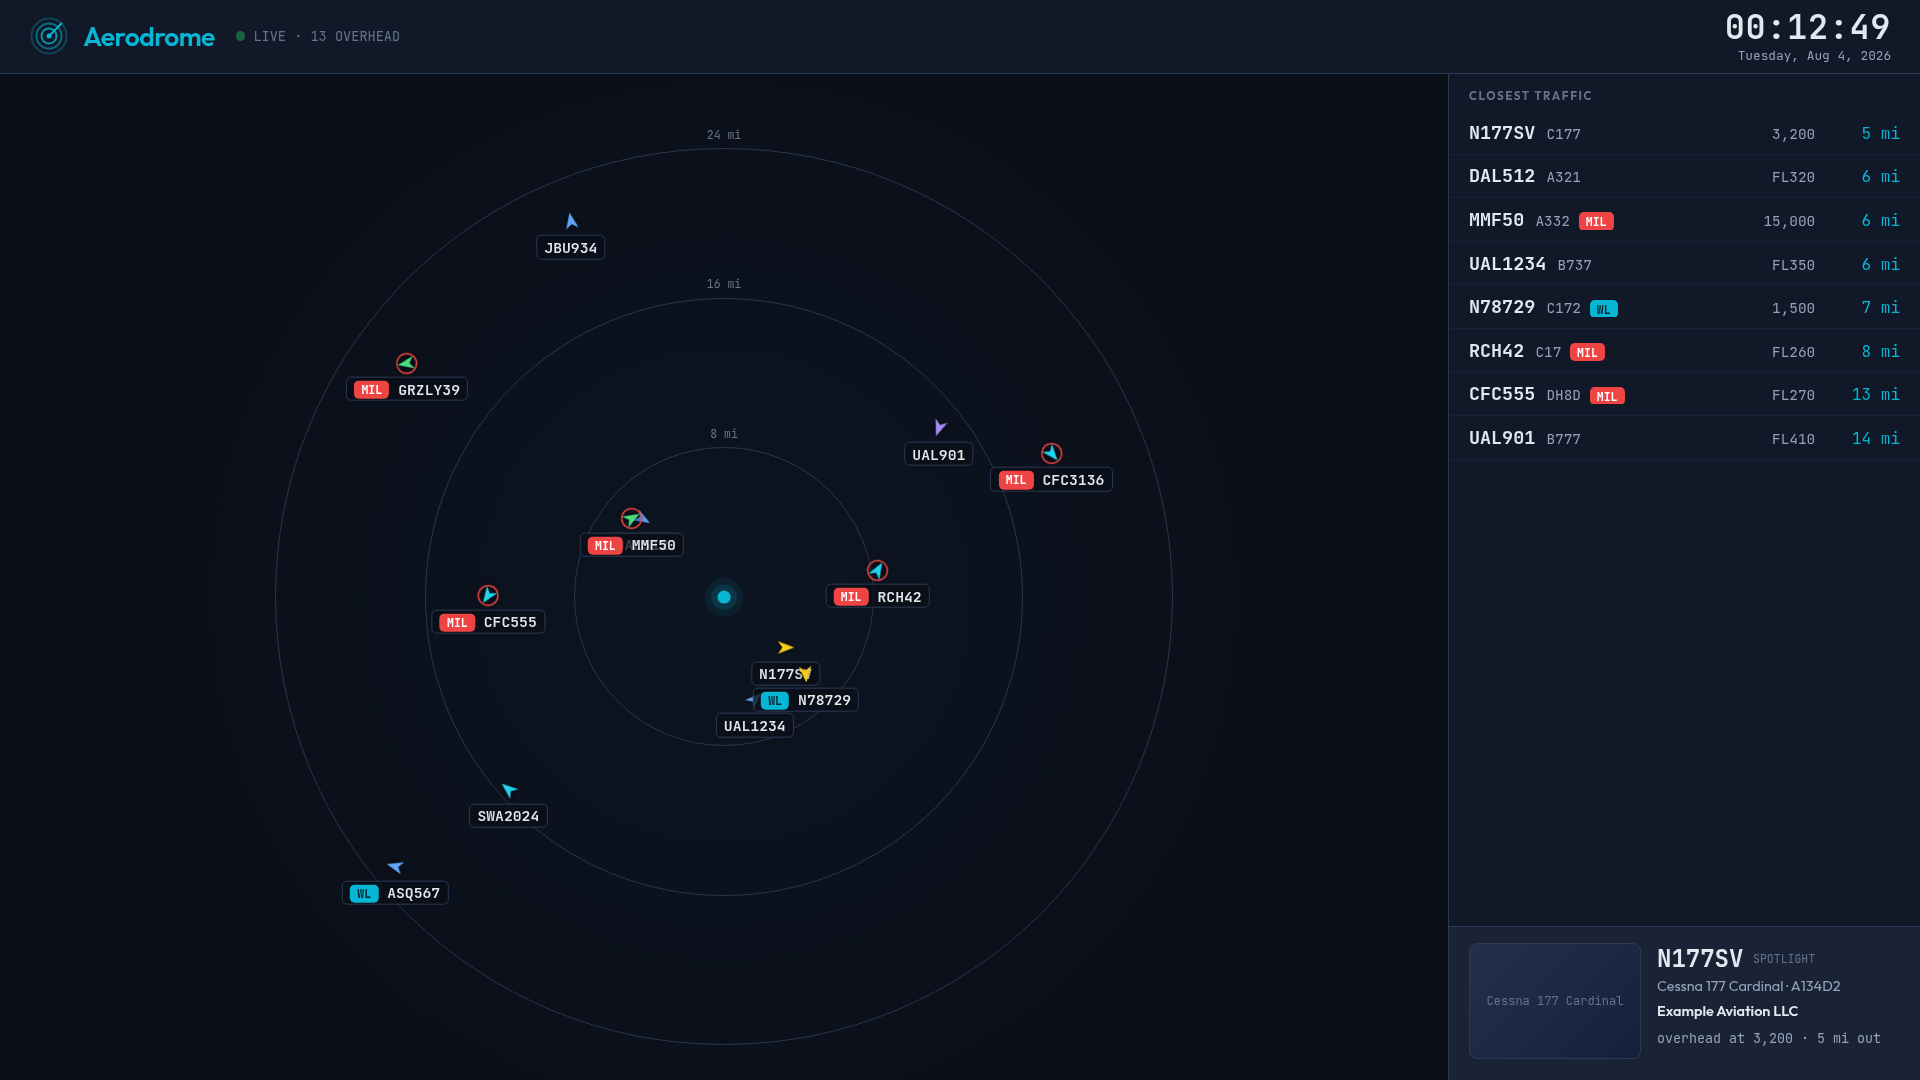
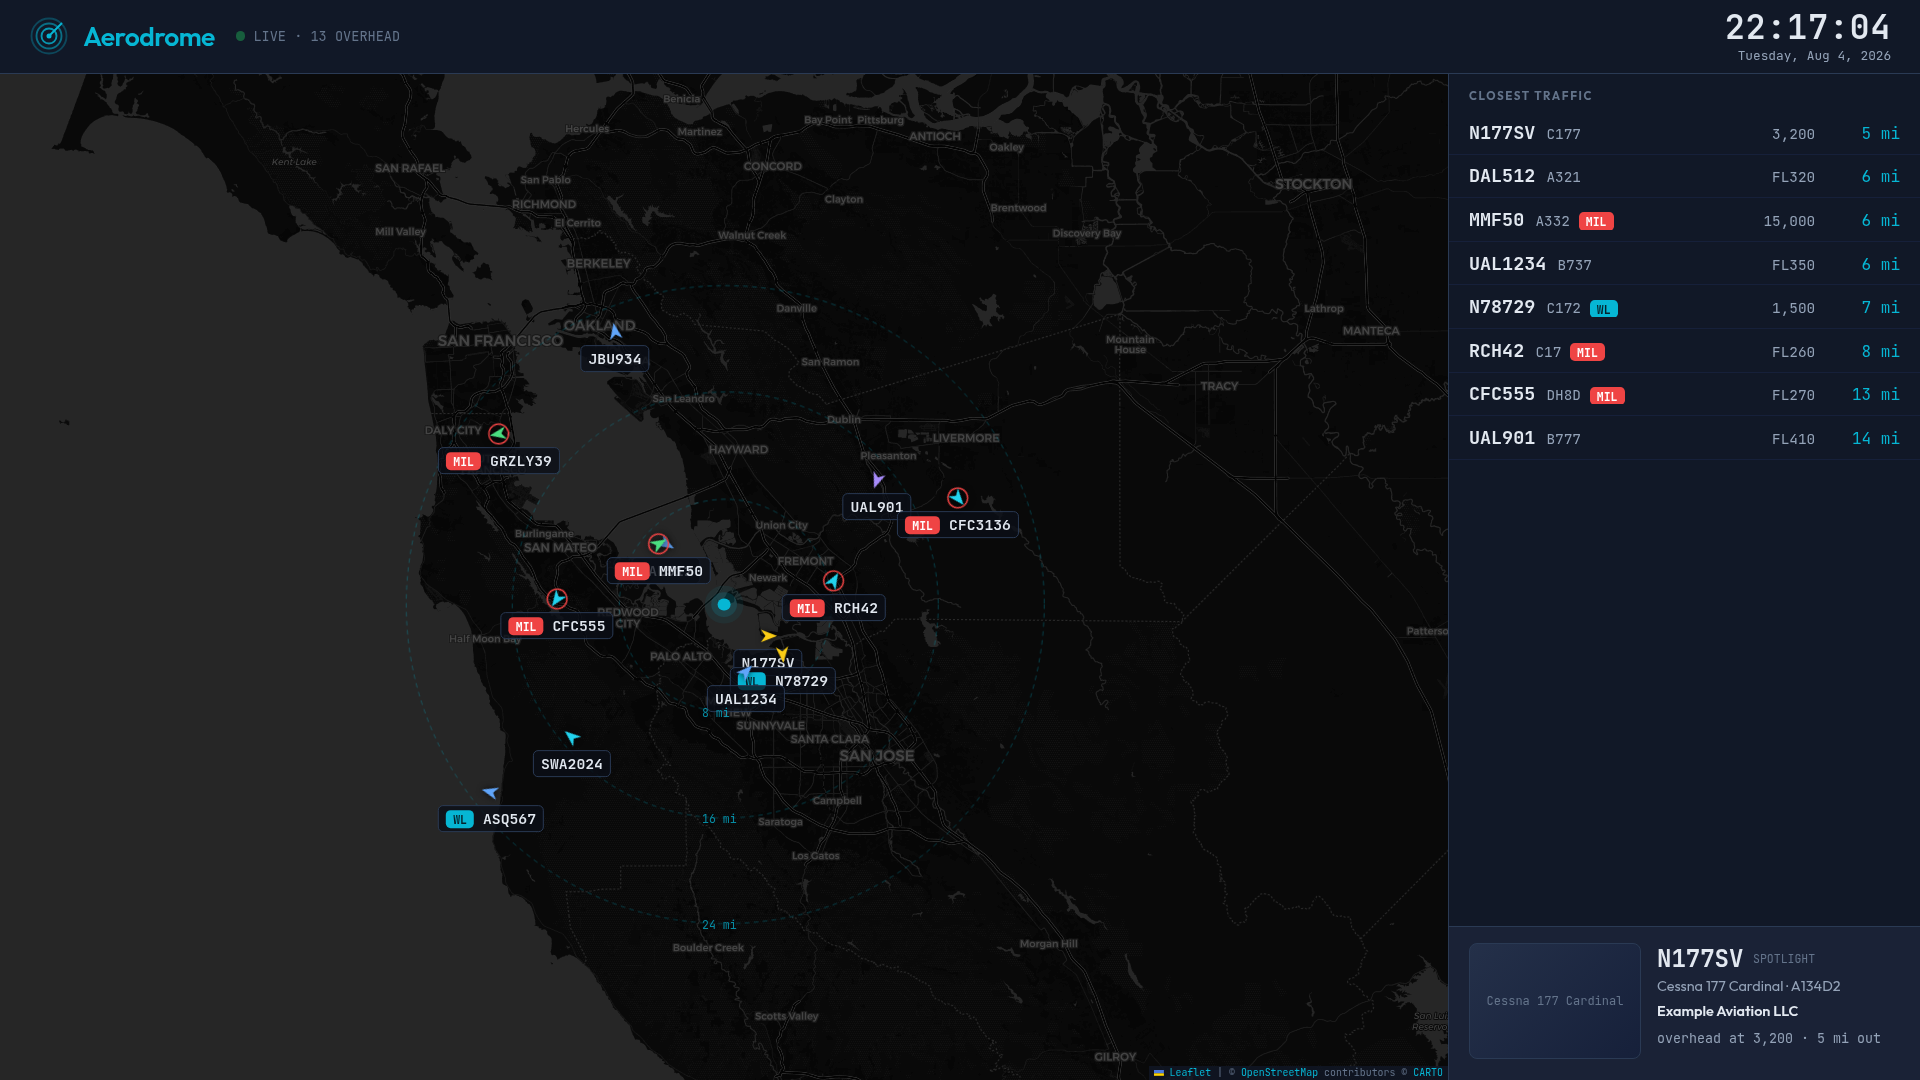
v3.4.112: display-board radar layouts on real map tiles — Leaflet basemap matching the Live radar (OSM/CARTO tiles, cyan dashed rings + south labels, receiver dot), honors Configuration → Map (theme/rings/starting view), non-interactive for kiosk; board shots re-rendered

diff --git a/templates/board.html b/templates/board.html
@@ -10,6 +10,8 @@
 <link rel="preconnect" href="https://fonts.googleapis.com">
 <link rel="preconnect" href="https://fonts.gstatic.com" crossorigin>
 <link href="https://fonts.googleapis.com/css2?family=JetBrains+Mono:wght@400;600;700&family=Outfit:wght@300;400;500;600;700&display=swap" rel="stylesheet">
+<link rel="stylesheet" href="/static/leaflet/leaflet.css">
+<script src="/static/leaflet/leaflet.js"></script>
 <style>
 /* =============================================================================
    Display board (v3.4.110) — kiosk page for FBO/office wall TVs.
@@ -61,11 +63,17 @@ body.picking{cursor:default}
   background:rgba(245,158,11,.14);border:1px solid var(--amber);color:var(--amber);
   font-family:var(--mono);font-size:.9rem;padding:.4rem 1rem;border-radius:.5rem;display:none}
 
-/* ---------- radar scope (modes A + C) ---------- */
+/* ---------- radar map (modes A + C) — a real Leaflet basemap, matching
+   the Live tab's radar (v3.4.112). The gradient shows only as a fallback
+   while tiles load / when no receiver location is configured. ---------- */
 .scope-wrap{position:absolute;inset:0;overflow:hidden;
   background:radial-gradient(circle at 50% 52%, #0d1522 0%, #0a0e17 72%)}
-.ring{position:absolute;border:1px solid rgba(42,58,84,.9);border-radius:50%}
-.ring-lab{position:absolute;font-family:var(--mono);font-size:.72rem;color:var(--t3);transform:translate(-50%,-50%)}
+.leaflet-container{background:#0a0e17;width:100%;height:100%}
+.scope-wrap .leaflet-control-attribution{background:rgba(17,24,39,.8);
+  color:var(--t3);font-size:.62rem;font-family:var(--mono)}
+.scope-wrap .leaflet-control-attribution a{color:var(--cyan)}
+.ring-lab{font-family:var(--mono);font-size:.72rem;color:var(--cyan);opacity:.75;
+  white-space:nowrap;text-shadow:0 0 .25rem rgba(10,14,23,.9)}
 .rx{position:absolute;width:.8rem;height:.8rem;border-radius:50%;background:var(--cyan);
     transform:translate(-50%,-50%);
     box-shadow:0 0 0 .4rem rgba(6,182,212,.15),0 0 0 .8rem rgba(6,182,212,.07)}
@@ -76,8 +84,7 @@ body.picking{cursor:default}
   background:rgba(10,14,23,.78);padding:.1rem .45rem;border-radius:.32rem;
   border:1px solid var(--bdr);white-space:nowrap}
 .ac .lab small{color:var(--t2);font-weight:400;font-size:.76rem}
-.ac.rim{opacity:.35}
-.legend{position:absolute;left:1.2rem;bottom:1.1rem;background:rgba(17,24,39,.85);
+.legend{position:absolute;left:1.2rem;bottom:1.1rem;z-index:1000;background:rgba(17,24,39,.85);
   border:1px solid var(--bdr);border-radius:.5rem;padding:.55rem .9rem;
   font-family:var(--mono);font-size:.72rem;color:var(--t2);display:flex;gap:.9rem;align-items:center}
 .sw{width:.68rem;height:.68rem;border-radius:.2rem;display:inline-block;margin-right:.3rem;vertical-align:-.06rem}
@@ -311,6 +318,10 @@ let LAST_OK = 0;          // epoch ms of last successful poll
 let FAILURES = 0;
 let BOOT_DAY = new Date().getDate();
 let WB_DEFAULT = 'ask';   // display.wallboard_layout from /api/ui-config
+// v3.4.112: the Map section's settings (Configuration → Map), same source the
+// Live radar reads — tiles theme, rings on/off, and the starting view.
+let MAPCFG = {show_range_rings: true, default_theme: 'auto',
+              starting_view: 'fit_all', fixed_zoom: 9};
 
 const $ = (id) => document.getElementById(id);
 function escapeHtml(s){
@@ -423,12 +434,6 @@ function distUnit(lat1, lon1, lat2, lon2){
   const a = Math.sin(dp/2)**2 + Math.cos(p1) * Math.cos(p2) * Math.sin(dl/2)**2;
   return 2 * R * Math.asin(Math.sqrt(a));
 }
-function bearing(lat1, lon1, lat2, lon2){
-  const p1 = lat1 * Math.PI/180, p2 = lat2 * Math.PI/180, dl = (lon2 - lon1) * Math.PI/180;
-  const y = Math.sin(dl) * Math.cos(p2);
-  const x = Math.cos(p1) * Math.sin(p2) - Math.sin(p1) * Math.cos(p2) * Math.cos(dl);
-  return Math.atan2(y, x);
-}
 function altColor(alt){
   if (alt == null || isNaN(alt)) return '#9ca3af';
   const a = Number(alt);
@@ -464,53 +469,121 @@ function chevronSvg(a, sizeRem){
   return `<svg viewBox="0 0 24 24" style="${s};transform:rotate(${rot}deg)">${ring}<path d="M12 2 L19 20 L12 15 L5 20 Z" fill="${col}"/></svg>`;
 }
 
-/* ============================ scope renderer (A + C) ============================ */
-function renderScope(el, opts){
-  if (!el) return;
-  const W = el.clientWidth, H = el.clientHeight;
-  if (!W || !H) return;
-  const cx = W * 0.5, cy = H * 0.52;
-  const remPx = parseFloat(getComputedStyle(document.documentElement).fontSize) || 16;
-  if (RX.lat == null || RX.lon == null) {
-    el.innerHTML = `<div style="position:absolute;inset:0;display:flex;align-items:center;justify-content:center;color:var(--t3);font-family:var(--mono);font-size:1rem;text-align:center">receiver location not configured —<br>radar layouts need it (Configuration → Receiver)</div>`;
-    return;
-  }
-  const maxRing = Math.max(...RINGS);
-  const pxPer = (Math.min(W, H) / 2 - 3.4 * remPx) / maxRing;
-  let html = '';
-  RINGS.forEach(rg => {
-    const d = rg * pxPer * 2;
-    html += `<div class="ring" style="width:${d}px;height:${d}px;left:${cx - d/2}px;top:${cy - d/2}px"></div>`;
-    html += `<div class="ring-lab" style="left:${cx}px;top:${cy - rg * pxPer - 0.9 * remPx}px">${rg} ${UNIT}</div>`;
-  });
-  html += `<div class="rx" style="left:${cx}px;top:${cy}px"></div>`;
-  const contacts = withDistance(LIVE).filter(a => a.lat != null && a.lon != null);
-  contacts.forEach(a => {
-    if (a._dist == null) return;
-    const brg = bearing(RX.lat, RX.lon, a.lat, a.lon);
-    const rim = a._dist > maxRing;
-    const r = Math.min(a._dist, maxRing) * pxPer;
-    const x = cx + r * Math.sin(brg), y = cy - r * Math.cos(brg);
-    const size = opts.big ? 1.6 : 1.35;
-    let lab = '';
-    if (!rim) {
-      const pill = a.is_military ? `<span class="pill mil">${escapeHtml(a.mil_label || 'MIL')}</span> `
-                 : (a.is_watchlist ? `<span class="pill wl">${escapeHtml(a.watchlist_label || 'WL')}</span> ` : '');
-      const tail = opts.telemetry ? ` <small>· ${fmtAltShort(a.altitude)}</small>` : '';
-      lab = `<div class="lab">${pill}${escapeHtml(a.callsign || a.icao)}${tail}</div>`;
-    }
-    html += `<div class="ac${rim ? ' rim' : ''}" style="left:${x}px;top:${y}px">${chevronSvg(a, size)}${lab}</div>`;
-  });
+/* ============================ radar map (A + C) ============================
+   A real Leaflet basemap, mirroring the Live tab's radar (v3.4.112): the
+   same OSM-light / CARTO-dark tiles, the same cyan dashed range rings with
+   south-edge distance labels, the same receiver dot. Honors Configuration →
+   Map (default_theme, show_range_rings, ring_distances, starting_view /
+   fixed_zoom via /api/ui-config). Non-interactive — a wall display has no
+   user to pan it, and disabling all input means the view can never drift. */
+const _maps = {};   // element id → {map, markers:{icao→L.marker}, rings:[], fitted}
+
+function _mapFor(el, opts){
+  if (_maps[el.id]) return _maps[el.id];
+  const map = L.map(el, {
+    preferCanvas: true, zoomControl: false, attributionControl: true,
+    dragging: false, scrollWheelZoom: false, doubleClickZoom: false,
+    boxZoom: false, keyboard: false, touchZoom: false, worldCopyJump: true,
+  }).setView([0, 0], 2);
+  // Tile theme follows the Map section's default_theme; the board is a
+  // dark page, so "auto" resolves dark here (there's no on-board toggle).
+  const light = (MAPCFG.default_theme === 'light');
+  (light
+    ? L.tileLayer('https://tile.openstreetmap.org/{z}/{x}/{y}.png', {
+        maxZoom: 18,
+        attribution: '© <a href="https://www.openstreetmap.org/copyright">OpenStreetMap</a> contributors'})
+    : L.tileLayer('https://{s}.basemaps.cartocdn.com/dark_all/{z}/{x}/{y}{r}.png', {
+        maxZoom: 19, subdomains: 'abcd',
+        attribution: '© <a href="https://www.openstreetmap.org/copyright">OpenStreetMap</a> contributors © <a href="https://carto.com/attributions">CARTO</a>'})
+  ).addTo(map);
+  const st = {map, markers: {}, rings: [], fitted: false, legendDone: false};
+  _maps[el.id] = st;
   if (opts.legend) {
-    html += `<div class="legend">
+    const lg = document.createElement('div');
+    lg.className = 'legend';
+    lg.innerHTML = `
       <span><span class="sw" style="background:#f97316"></span>&lt;1k</span>
       <span><span class="sw" style="background:#facc15"></span>&lt;10k</span>
       <span><span class="sw" style="background:#4ade80"></span>&lt;20k</span>
       <span><span class="sw" style="background:#22d3ee"></span>&lt;30k</span>
       <span><span class="sw" style="background:#60a5fa"></span>&lt;40k</span>
-      <span><span class="sw" style="background:#a78bfa"></span>40k+</span></div>`;
+      <span><span class="sw" style="background:#a78bfa"></span>40k+</span>`;
+    el.appendChild(lg);
   }
-  el.innerHTML = html;
+  return st;
+}
+
+function _drawRings(st){
+  st.rings.forEach(r => st.map.removeLayer(r));
+  st.rings = [];
+  if (RX.lat == null || RX.lon == null) return;
+  const ll = [RX.lat, RX.lon];
+  const rxm = L.marker(ll, {
+    icon: L.divIcon({className: '', html: '<span class="rx"></span>',
+                     iconSize: [0, 0]}),
+    interactive: false, zIndexOffset: 1000,
+  }).addTo(st.map);
+  st.rings.push(rxm);
+  if (!MAPCFG.show_range_rings) return;
+  const perUnitM = UNIT === 'km' ? 1000 : (UNIT === 'nmi' || UNIT === 'nm') ? 1852 : 1609.34;
+  RINGS.forEach(d => {
+    const ring = L.circle(ll, {
+      radius: d * perUnitM, weight: 1, opacity: 0.32, fill: false,
+      interactive: false, dashArray: '4 5', color: '#06b6d4',
+    }).addTo(st.map);
+    st.rings.push(ring);
+    const southLat = RX.lat - (d * perUnitM) / 111320;
+    const lbl = L.marker([southLat, RX.lon], {
+      icon: L.divIcon({className: 'ring-lab', html: `${d} ${escapeHtml(UNIT)}`,
+                       iconSize: [44, 14], iconAnchor: [22, 7]}),
+      interactive: false, keyboard: false,
+    }).addTo(st.map);
+    st.rings.push(lbl);
+  });
+}
+
+function renderScope(el, opts){
+  if (!el || !el.clientWidth) return;
+  const st = _mapFor(el, opts);
+  const contacts = withDistance(LIVE).filter(a => a.lat != null && a.lon != null);
+  // Rings redraw only when absent (receiver/config don't move mid-session).
+  if (!st.rings.length) _drawRings(st);
+  const seen = new Set();
+  contacts.forEach(a => {
+    seen.add(a.icao);
+    const size = opts.big ? 1.6 : 1.35;
+    const pill = a.is_military ? `<span class="pill mil">${escapeHtml(a.mil_label || 'MIL')}</span> `
+               : (a.is_watchlist ? `<span class="pill wl">${escapeHtml(a.watchlist_label || 'WL')}</span> ` : '');
+    const tail = opts.telemetry ? ` <small>· ${fmtAltShort(a.altitude)}</small>` : '';
+    const html = `<div class="ac">${chevronSvg(a, size)}<div class="lab">${pill}${escapeHtml(a.callsign || a.icao)}${tail}</div></div>`;
+    const icon = L.divIcon({className: '', html, iconSize: [0, 0]});
+    if (st.markers[a.icao]) {
+      st.markers[a.icao].setLatLng([a.lat, a.lon]).setIcon(icon);
+    } else {
+      st.markers[a.icao] = L.marker([a.lat, a.lon], {icon, interactive: false})
+        .addTo(st.map);
+    }
+  });
+  Object.keys(st.markers).forEach(ic => {
+    if (!seen.has(ic)) { st.map.removeLayer(st.markers[ic]); delete st.markers[ic]; }
+  });
+  // Frame the view ONCE, per the Map section's starting view. Never re-fit on
+  // poll — a wall display that keeps re-zooming is unwatchable.
+  if (!st.fitted && (contacts.length || RX.lat != null)) {
+    st.fitted = true;
+    const haveRx = RX.lat != null && RX.lon != null;
+    if (haveRx && MAPCFG.starting_view === 'fixed_zoom') {
+      st.map.setView([RX.lat, RX.lon], MAPCFG.fixed_zoom || 9);
+    } else if (haveRx && MAPCFG.starting_view === 'fit_rings' && RINGS.length) {
+      const perUnitM = UNIT === 'km' ? 1000 : (UNIT === 'nmi' || UNIT === 'nm') ? 1852 : 1609.34;
+      st.map.fitBounds(L.circle([RX.lat, RX.lon],
+        {radius: Math.max(...RINGS) * perUnitM}).getBounds(), {padding: [10, 10]});
+    } else {
+      const pts = contacts.map(a => [a.lat, a.lon]);
+      if (haveRx) pts.push([RX.lat, RX.lon]);
+      if (pts.length) st.map.fitBounds(L.latLngBounds(pts), {padding: [60, 60], maxZoom: 11});
+    }
+  }
 }
 
 /* ============================ route/photo/owner memos ============================ */
@@ -678,7 +751,10 @@ function renderAll(){
   else if (MODE === 'hybrid') renderC();
   updateSignal();
 }
-window.addEventListener('resize', renderAll);
+window.addEventListener('resize', () => {
+  Object.values(_maps).forEach(st => st.map.invalidateSize());
+  renderAll();
+});
 (async function boot(){
   try {
     const r = await fetch('/api/ui-config');
@@ -687,6 +763,12 @@ window.addEventListener('resize', renderAll);
       if (j.distance_unit) UNIT = j.distance_unit;
       const rg = j.map && j.map.ring_distances;
       if (Array.isArray(rg) && rg.length) RINGS = rg;
+      if (j.map) {
+        MAPCFG.show_range_rings = j.map.show_range_rings !== false;
+        MAPCFG.default_theme = j.map.default_theme || 'auto';
+        MAPCFG.starting_view = j.map.starting_view || 'fit_all';
+        MAPCFG.fixed_zoom = j.map.fixed_zoom || 9;
+      }
       if (j.display && j.display.wallboard_layout) WB_DEFAULT = j.display.wallboard_layout;
     }
   } catch (e) { /* defaults are fine */ }

diff --git a/templates/docs.html b/templates/docs.html
@@ -19,7 +19,7 @@
 })();
 </script>
     <!-- theme:inline-fouc-end -->
-<!-- Version: 3.4.111 -->
+<!-- Version: 3.4.112 -->
 <meta charset="UTF-8">
 <meta name="viewport" content="width=device-width, initial-scale=1.0">
 <title>Aerodrome Documentation</title>

diff --git a/templates/about.html b/templates/about.html
@@ -19,7 +19,7 @@
 })();
 </script>
     <!-- theme:inline-fouc-end -->
-<!-- Version: 3.4.111 -->
+<!-- Version: 3.4.112 -->
 <meta charset="UTF-8">
 <meta name="viewport" content="width=device-width, initial-scale=1.0">
 <title>About — Aerodrome</title>

diff --git a/templates/diagnostics-slow-queries.html b/templates/diagnostics-slow-queries.html
@@ -1,4 +1,4 @@
-<!-- Version: 3.4.111 -->
+<!-- Version: 3.4.112 -->
 <!DOCTYPE html>
 <!-- theme:inline-fouc-start -->
 <script>(function(){var t=localStorage.getItem('theme');if(t==='light')document.documentElement.classList.add('light');})();</script>

diff --git a/templates/logs.html b/templates/logs.html
@@ -19,7 +19,7 @@
 })();
 </script>
     <!-- theme:inline-fouc-end -->
-<!-- Version: 3.4.111 -->
+<!-- Version: 3.4.112 -->
 <meta charset="UTF-8">
 <meta name="viewport" content="width=device-width, initial-scale=1.0">
 <title>Aerodrome Logs</title>

diff --git a/templates/aircraft.html b/templates/aircraft.html
@@ -1,4 +1,4 @@
-<!-- Version: 3.4.111 -->
+<!-- Version: 3.4.112 -->
 <!DOCTYPE html>
 <html lang="en">
 <head>

diff --git a/templates/config.html b/templates/config.html
@@ -1,4 +1,4 @@
-<!-- Version: 3.4.111 -->
+<!-- Version: 3.4.112 -->
 <!DOCTYPE html>
 <html lang="en">
 <head>

diff --git a/templates/diagnostics-watchlist.html b/templates/diagnostics-watchlist.html
@@ -1,4 +1,4 @@
-<!-- Version: 3.4.111 -->
+<!-- Version: 3.4.112 -->
 <!DOCTYPE html>
 <html lang="en">
 <head>

diff --git a/templates/diagnostics.html b/templates/diagnostics.html
@@ -1,4 +1,4 @@
-<!-- Version: 3.4.111 -->
+<!-- Version: 3.4.112 -->
 <!DOCTYPE html>
 <html lang="en">
 <head>

diff --git a/templates/index.html b/templates/index.html
@@ -1,4 +1,4 @@
-<!-- Version: 3.4.111 -->
+<!-- Version: 3.4.112 -->
 <!DOCTYPE html>
 <html lang="en">
 <head>

diff --git a/templates/performance.html b/templates/performance.html
@@ -1,4 +1,4 @@
-<!-- Version: 3.4.111 -->
+<!-- Version: 3.4.112 -->
 <!DOCTYPE html>
 <html lang="en">
 <head>

diff --git a/templates/status.html b/templates/status.html
@@ -1,4 +1,4 @@
-<!-- Version: 3.4.111 -->
+<!-- Version: 3.4.112 -->
 <!DOCTYPE html>
 <html lang="en">
 <head>
